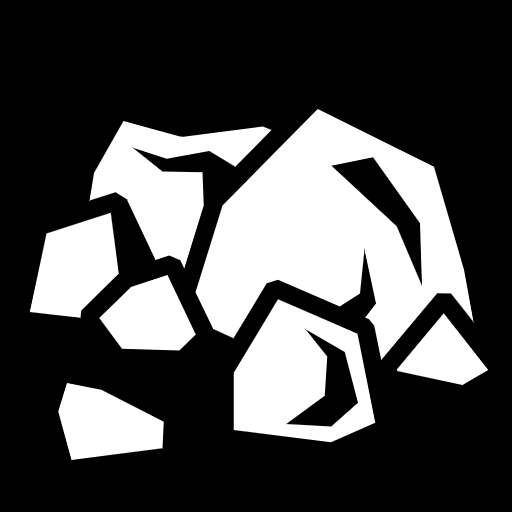
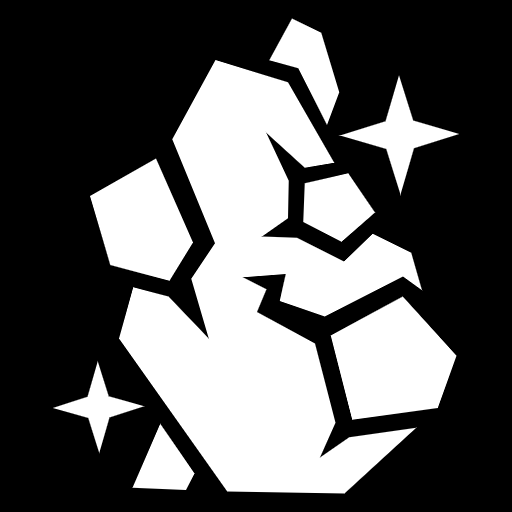
Add iron & gems

diff --git a/src/states/Game.js b/src/states/Game.js
@@ -19,6 +19,8 @@ export default class Game extends Phaser.State {
 
     this.stoneText.setText(this.player.stones);
     this.logText.setText(this.player.logs);
+    this.gemText.setText(this.player.gems);
+    this.ironText.setText(this.player.iron);
 
     this.updateDayCycle();
   }
@@ -389,6 +391,54 @@ export default class Game extends Phaser.State {
     );
     this.stoneText.fixedToCamera = true;
     this.game.add.existing(this.stoneText);
+
+    const ironIcon = new Phaser.Image(
+      this.game,
+      0,
+      this.game.height - 50 - 50 - 50,
+      "iron-icon"
+    );
+    ironIcon.width = ironIcon.height = 50;
+    ironIcon.fixedToCamera = true;
+    this.game.add.existing(ironIcon);
+
+    this.ironText = new Phaser.Text(
+      this.game,
+      50 + 5,
+      this.game.height - 50 - 50 - 50 + 15,
+      "0",
+      {
+        font: "20px monospace",
+        fill: "#ffee44",
+        align: "center",
+      }
+    );
+    this.ironText.fixedToCamera = true;
+    this.game.add.existing(this.ironText);
+
+    const gemIcon = new Phaser.Image(
+      this.game,
+      0,
+      this.game.height - 50 - 50 - 50 - 50,
+      "gem-icon"
+    );
+    gemIcon.width = gemIcon.height = 50;
+    gemIcon.fixedToCamera = true;
+    this.game.add.existing(gemIcon);
+
+    this.gemText = new Phaser.Text(
+      this.game,
+      50 + 5,
+      this.game.height - 50 - 50 - 50 - 50 + 15,
+      "0",
+      {
+        font: "20px monospace",
+        fill: "#ffee44",
+        align: "center",
+      }
+    );
+    this.gemText.fixedToCamera = true;
+    this.game.add.existing(this.gemText);
   }
 }
 

diff --git a/src/sprites/Player.js b/src/sprites/Player.js
@@ -5,13 +5,17 @@ import Tree from "./Tree";
 const HARVEST_INTERVAL = 0.2;
 const BASE_WC_CHANCE = 0.2;
 const BASE_MINING_CHANCE = 0.2;
+const IRON_MULTIPLIER = 0.5;
+const GEM_MULTIPLIER = 0.1;
 
 export default class Player extends Phaser.Sprite {
   constructor({ game, x, y, asset }) {
     super(game, x, y, asset);
 
-    this.logs = 100;
-    this.stones = 100;
+    this.logs = 0;
+    this.stones = 0;
+    this.iron = 0;
+    this.gems = 0;
 
     this.pickaxeTier = 1;
     this.axeTier = 1;
@@ -73,7 +77,8 @@ export default class Player extends Phaser.Sprite {
       const roll = Math.random();
 
       if (this.targetResource instanceof Tree) {
-        if (roll < BASE_WC_CHANCE + 0.08 * (this.axeTier - 1)) {
+        const wcChance = BASE_WC_CHANCE + 0.08 * (this.axeTier - 1);
+        if (roll < wcChance) {
           this.logs++;
           this.targetResource.logs--;
 
@@ -83,7 +88,14 @@ export default class Player extends Phaser.Sprite {
           }
         }
       } else if (this.targetResource instanceof Stone) {
-        if (roll < BASE_MINING_CHANCE + 0.08 * (this.pickaxeTier - 1)) {
+        const miningChance = BASE_MINING_CHANCE + 0.08 * (this.pickaxeTier - 1);
+        if (roll < miningChance) {
+          if (roll < miningChance * GEM_MULTIPLIER) {
+            this.gems++;
+          }
+          if (roll < miningChance * IRON_MULTIPLIER) {
+            this.iron++;
+          }
           this.stones++;
         }
       }

diff --git a/src/states/Splash.js b/src/states/Splash.js
@@ -26,6 +26,7 @@ export default class extends Phaser.State {
     //
     this.load.image("stone-icon", "assets/stone.png");
     this.load.image("iron-icon", "assets/iron.png");
+    this.load.image("gem-icon", "assets/gem.png");
     this.load.image("log-icon", "assets/log.png");
     this.load.image("axe-icon", "assets/axe.png");
     this.load.image("pickaxe-icon", "assets/pickaxe.png");
